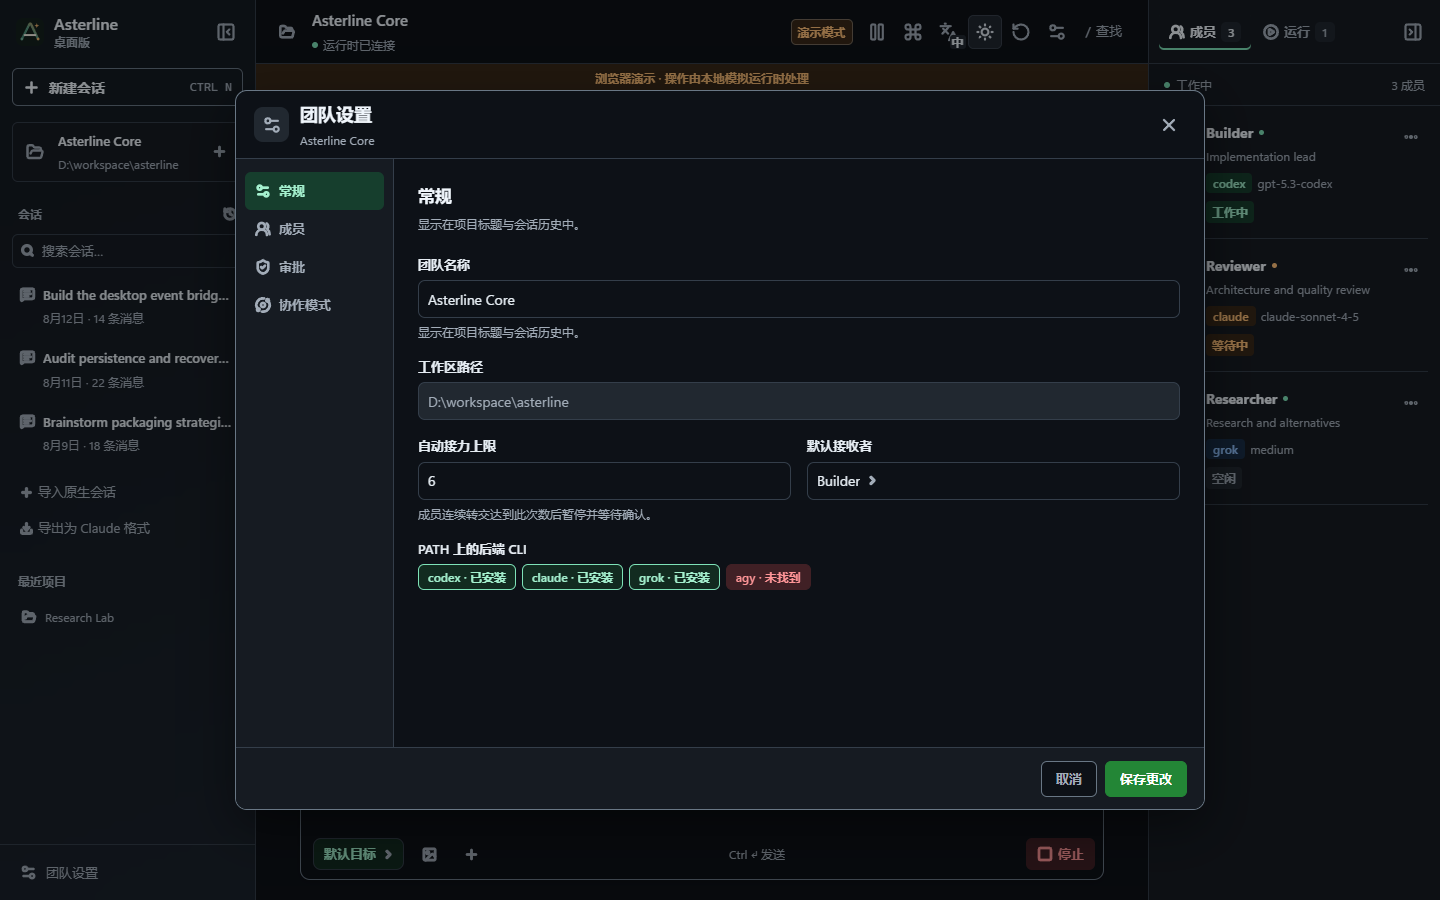
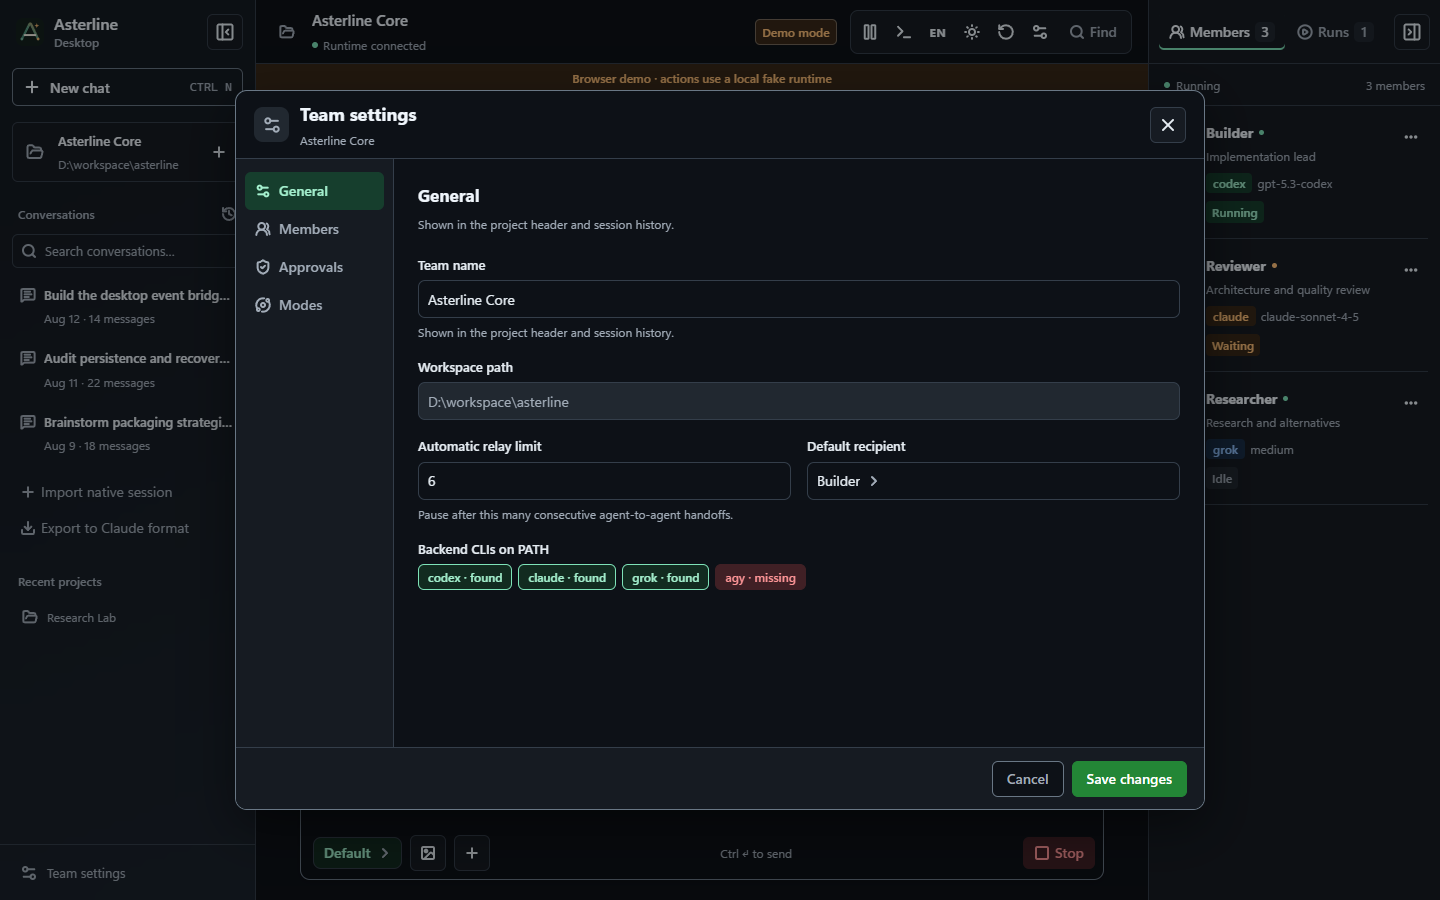
refactor(desktop): sharpen compact widget controls

diff --git a/desktop/src/App.tsx b/desktop/src/App.tsx
@@ -17,7 +17,7 @@ import type {
 import { ApprovalQueue } from "./components/ApprovalQueue";
 import { CommandPalette } from "./components/CommandPalette";
 import { Composer } from "./components/Composer";
-import { ChevronIcon, CommandIcon, FolderIcon, GlobeIcon, MoonIcon, PanelLeftIcon, PanelRightIcon, PauseIcon, PlayIcon, RefreshIcon, SettingsIcon, SunIcon, XIcon } from "./components/Icons";
+import { ChevronIcon, CodeIcon, FolderIcon, ModeIcon, MoonIcon, PanelLeftIcon, PanelRightIcon, PauseIcon, PlayIcon, RefreshIcon, RunIcon, SearchIcon, SettingsIcon, SunIcon, TerminalIcon, ToolIcon, XIcon } from "./components/Icons";
 import { Inspector } from "./components/Inspector";
 import { ModePanel } from "./components/ModePanel";
 import { ProjectPicker } from "./components/ProjectPicker";
@@ -524,22 +524,26 @@ export function App() {
           <div className="topbar-title"><span className="topbar-folder"><FolderIcon size={16} /></span><div><strong>{snapshot?.team?.name || snapshot?.workspace?.split(/[\\/]/).at(-1) || t("workspace")}</strong><small><i className={snapshot?.phase === "ready" ? "online" : ""} />{snapshot?.phase === "ready" ? t("connected") : t("starting")}</small></div></div>
           <div className="topbar-actions">
             {client.kind === "mock" && <span className="demo-pill">{t("demo")}</span>}
-            <button className="icon-button" aria-label={snapshot?.relay_paused ? t("resumeRelayAuto") : t("pauseRelay")} title={snapshot?.relay_paused ? t("resumeRelayAuto") : t("pauseRelay")} onClick={() => void dispatch({ type: "set_relay_paused", paused: !snapshot?.relay_paused })}>{snapshot?.relay_paused ? <PlayIcon /> : <PauseIcon />}</button>
-            <button className="icon-button" aria-label={t("commandPalette")} title={`${t("commandPalette")} (Ctrl+K)`} onClick={() => { setPaletteExecutable(true); setPaletteOpen(true); }}><CommandIcon /></button>
-            <button className="icon-button" aria-label={t("language")} title={t("language")} onClick={() => setLocale((value) => value === "zh-CN" ? "en-US" : "zh-CN")}><GlobeIcon /><small>{locale === "zh-CN" ? "中" : "EN"}</small></button>
-            <button className="icon-button" aria-label={t("theme")} title={t("theme")} onClick={() => setTheme((value) => value === "light" ? "dark" : "light")}>{theme === "light" ? <MoonIcon /> : <SunIcon />}</button>
-            <button className={`icon-button ${updateBusy ? "is-spinning" : ""}`} aria-label={t("update")} title={t("update")} disabled={updateBusy} onClick={() => void checkUpdate()}><RefreshIcon /></button>
-            <button className="icon-button" aria-label={t("settings")} title={t("settings")} onClick={() => setSettingsOpen(true)}><SettingsIcon /></button>
-            <button className="utility-launcher-button" onClick={() => openUtility("find")} title={t("find")}><span>/</span>{t("find")}</button>
-            {!inspectorOpen && <button className="icon-button panel-restore-button" onClick={toggleInspector} aria-label={t("details")}><PanelRightIcon /></button>}
+            <div className="topbar-control-group" role="toolbar" aria-label={t("workspaceActions")}>
+              <button className="icon-button" aria-label={snapshot?.relay_paused ? t("resumeRelayAuto") : t("pauseRelay")} aria-pressed={Boolean(snapshot?.relay_paused)} title={snapshot?.relay_paused ? t("resumeRelayAuto") : t("pauseRelay")} onClick={() => void dispatch({ type: "set_relay_paused", paused: !snapshot?.relay_paused })}>{snapshot?.relay_paused ? <PlayIcon size={18} /> : <PauseIcon size={18} />}</button>
+              <button className="icon-button" aria-label={t("commandPalette")} title={`${t("commandPalette")} (Ctrl+K)`} onClick={() => { setPaletteExecutable(true); setPaletteOpen(true); }}><TerminalIcon size={18} /></button>
+              <button className="icon-button language-button" aria-label={t("language")} title={t("language")} onClick={() => setLocale((value) => value === "zh-CN" ? "en-US" : "zh-CN")}><span className="language-code" aria-hidden="true">{locale === "zh-CN" ? "中" : "EN"}</span></button>
+              <button className="icon-button" aria-label={t("theme")} title={t("theme")} onClick={() => setTheme((value) => value === "light" ? "dark" : "light")}>{theme === "light" ? <MoonIcon size={18} /> : <SunIcon size={18} />}</button>
+              <button className={`icon-button ${updateBusy ? "is-spinning" : ""}`} aria-label={t("update")} title={t("update")} disabled={updateBusy} onClick={() => void checkUpdate()}><RefreshIcon size={18} /></button>
+              <button className="icon-button" aria-label={t("settings")} title={t("settings")} onClick={() => setSettingsOpen(true)}><SettingsIcon size={18} /></button>
+              <button className="utility-launcher-button" onClick={() => openUtility("find")} title={t("find")}><SearchIcon size={16} /><span>{t("find")}</span></button>
+              {!inspectorOpen && <button className="icon-button panel-restore-button" onClick={toggleInspector} aria-label={t("details")}><PanelRightIcon size={18} /></button>}
+            </div>
           </div>
         </header>
 
         {client.kind === "mock" && <div className="demo-banner">{t("mockBanner")}</div>}
-        <div className="utility-launcher" aria-label={t("utilities")}>
-          {(["logs", "diff", "skills"] as const).map((kind) => <button key={kind} onClick={() => openUtility(kind)} className={utilityKind === kind ? "active" : ""}>{t(kind)}</button>)}
-          <button onClick={() => setRunsOpen(true)} className={runsOpen ? "active" : ""}>{t("runs")}</button>
-          <button onClick={() => setModePanelOpen(true)} className={modePanelOpen ? "active" : ""}>{t("modes")}</button>
+        <div className="utility-launcher" role="toolbar" aria-label={t("utilityPanels")}>
+          <button onClick={() => openUtility("logs")} aria-pressed={utilityKind === "logs"} className={utilityKind === "logs" ? "active" : ""}><TerminalIcon size={16} /><span>{t("logs")}</span></button>
+          <button onClick={() => openUtility("diff")} aria-pressed={utilityKind === "diff"} className={utilityKind === "diff" ? "active" : ""}><CodeIcon size={16} /><span>{t("diff")}</span></button>
+          <button onClick={() => openUtility("skills")} aria-pressed={utilityKind === "skills"} className={utilityKind === "skills" ? "active" : ""}><ToolIcon size={16} /><span>{t("skills")}</span></button>
+          <button onClick={() => setRunsOpen(true)} aria-pressed={runsOpen} className={runsOpen ? "active" : ""}><RunIcon size={16} /><span>{t("runs")}</span></button>
+          <button onClick={() => setModePanelOpen(true)} aria-pressed={modePanelOpen} className={modePanelOpen ? "active" : ""}><ModeIcon size={16} /><span>{t("modes")}</span></button>
         </div>
         <div className="conversation-column">
           <div className="timeline-scroll" ref={timelineScroll}>

diff --git a/desktop/src/styles/components.css b/desktop/src/styles/components.css
@@ -981,6 +981,7 @@ select {
   display: block;
   flex: 0 0 auto;
   overflow: visible;
+  shape-rendering: geometricPrecision;
 }
 
 .brand-copy {
@@ -2816,22 +2817,22 @@ small {
 }
 
 .icon-button {
-  border: 0;
-  background: transparent;
-  color: var(--muted);
+  border: 1px solid var(--border);
+  background: var(--surface-soft);
+  color: var(--text);
   display: inline-flex;
   align-items: center;
   justify-content: center;
-  transition: color .15s ease, background-color .15s ease, box-shadow .15s ease;
-  width: 34px;
-  height: 34px;
+  transition: color .12s ease, border-color .12s ease, background-color .12s ease, box-shadow .12s ease;
+  width: 36px;
+  height: 36px;
   border-radius: 6px;
 }
 
 .subtle-icon-button {
-  border: 0;
+  border: 1px solid transparent;
   background: transparent;
-  color: var(--muted);
+  color: var(--text);
   display: inline-flex;
   align-items: center;
   justify-content: center;
@@ -3102,23 +3103,36 @@ small {
 .topbar-actions {
   display: flex;
   align-items: center;
-  gap: 2px;
+  gap: 8px;
   flex-shrink: 0;
 }
 
-.topbar-actions .icon-button small {
-  position: absolute;
-  right: 0;
-  bottom: 0;
-  border-radius: 3px;
-  font-weight: 600;
-  min-width: 13px;
-  line-height: 1;
-  background: var(--panel-muted);
-  color: var(--text);
-  font-size: var(--text-control);
-  line-height: var(--line-control);
-  padding: 1px 2px;
+.topbar-control-group {
+  display: inline-flex;
+  align-items: center;
+  gap: 2px;
+  padding: 3px;
+  border: 1px solid var(--border);
+  border-radius: 8px;
+  background: var(--panel);
+}
+
+.topbar-control-group .icon-button {
+  width: 32px;
+  height: 32px;
+  border-color: transparent;
+  background: transparent;
+}
+
+.topbar-control-group .icon-button:hover:not(:disabled),
+.topbar-control-group .icon-button:active:not(:disabled) {
+  border-color: var(--border-strong);
+}
+
+.language-code {
+  color: currentColor;
+  font: 650 12px/1 var(--font-sans);
+  letter-spacing: .02em;
 }
 
 .demo-pill {
@@ -3157,16 +3171,21 @@ small {
   padding: 5px 16px;
   border-bottom: 1px solid var(--border);
   overflow-x: auto;
+  background: var(--panel);
 }
 
 .utility-launcher button {
-  color: var(--muted);
+  color: var(--text);
   cursor: pointer;
-  border: 0;
+  display: inline-flex;
+  align-items: center;
+  gap: 6px;
+  border: 1px solid var(--border);
   border-radius: 5px;
-  padding: 7px 10px;
+  min-height: 32px;
+  padding: 5px 10px;
   font: 500 var(--text-control)/var(--line-control) var(--font-sans);
-  background: transparent;
+  background: var(--surface);
   white-space: nowrap;
 }
 
@@ -3176,7 +3195,7 @@ small {
   display: inline-flex;
   gap: 5px;
   align-items: center;
-  border: 0;
+  border: 1px solid transparent;
   border-radius: 5px;
   padding: 7px 10px;
   font: 500 var(--text-control)/var(--line-control) var(--font-sans);
@@ -3185,19 +3204,20 @@ small {
 }
 
 .utility-launcher button:hover {
-  border-color: color-mix(in srgb, var(--accent) 45%, var(--border));
+  border-color: var(--border-strong);
   color: var(--text-strong);
   background: var(--surface-hover);
 }
 
 .utility-launcher button.active {
-  border-color: color-mix(in srgb, var(--accent) 45%, var(--border));
-  color: var(--text-strong);
-  background: var(--surface-hover);
+  border-color: color-mix(in srgb, var(--accent) 65%, var(--border));
+  color: var(--accent-strong);
+  background: var(--accent-faint);
+  box-shadow: inset 0 -2px var(--accent);
 }
 
 .utility-launcher-button:hover {
-  border-color: color-mix(in srgb, var(--accent) 45%, var(--border));
+  border-color: var(--border-strong);
   color: var(--text-strong);
   background: var(--surface-hover);
 }

diff --git a/desktop/src/components/Composer.tsx b/desktop/src/components/Composer.tsx
@@ -18,7 +18,7 @@ import type {
 } from "../bridge/types";
 import type { Translate } from "../i18n";
 import { Dropdown } from "./Dropdown";
-import { ImageIcon, PlusIcon, SendIcon, SparkIcon, StopIcon } from "./Icons";
+import { ImageIcon, PlusIcon, SendIcon, SparkIcon, StopIcon, XIcon } from "./Icons";
 
 /** Composer budget mirrored from the shared contract (256 KiB). */
 export const MAX_COMPOSER_BYTES = 256 * 1024;
@@ -358,7 +358,7 @@ export function Composer({
       <div className="mode-row" role="toolbar" aria-label={t("modes")}>
         <div className="mode-switcher">
           <SparkIcon size={13} className="mode-switcher-glyph" />
-          {MODES.map((value) => <button key={value} className={mode === value ? "active" : ""} onClick={() => onMode(value)} disabled={disabled}>{t(value)}</button>)}
+          {MODES.map((value) => <button key={value} className={mode === value ? "active" : ""} aria-pressed={mode === value} onClick={() => onMode(value)} disabled={disabled}>{t(value)}</button>)}
         </div>
       </div>
       <div className={`composer ${disabled ? "disabled" : ""}`}>
@@ -389,7 +389,7 @@ export function Composer({
                     getDesktopClient().removeStagedAttachment(attachment.token).catch(() => undefined);
                   }}
                 >
-                  ×
+                  <XIcon size={16} />
                 </button>
               </span>
             ))}

diff --git a/desktop/src/components/SessionImportModal.tsx b/desktop/src/components/SessionImportModal.tsx
@@ -2,7 +2,7 @@ import { useEffect, useMemo, useState } from "react";
 import type { BackendKind, DesktopCommandV2, MemberSummaryV2, NativeSessionSummary } from "../bridge/types";
 import type { Translate } from "../i18n";
 import { Dropdown } from "./Dropdown";
-import { XIcon } from "./Icons";
+import { RefreshIcon, XIcon } from "./Icons";
 
 const BACKENDS: BackendKind[] = ["codex", "claude", "grok", "agy"];
 
@@ -84,7 +84,7 @@ export function SessionImportModal({ workspace, members, busy, t, onClose, dispa
             aria-label={t("nativeSessionSearch")}
             onChange={(event) => setQuery(event.target.value)}
           />
-          <button className="icon-button" aria-label={t("refreshUtility")} onClick={() => void load()} disabled={busy}>⟳</button>
+          <button className="icon-button" aria-label={t("refreshUtility")} title={t("refreshUtility")} onClick={() => void load()} disabled={busy}><RefreshIcon size={18} /></button>
         </div>
         {error && <p className="session-import-error">{error}</p>}
         <ul className="session-import-list">

diff --git a/desktop/e2e/critical-flows.spec.ts b/desktop/e2e/critical-flows.spec.ts
@@ -157,3 +157,18 @@ test("target selector is a themed dropdown with keyboard support", async ({ page
   await expect(trigger).toContainText("Reviewer");
   await expect(listbox).toBeHidden();
 });
+
+test("compact widget buttons keep visible bounds and crisp vector geometry", async ({ page }) => {
+  const workspaceActions = page.getByRole("toolbar", { name: "Workspace actions" });
+  const settings = workspaceActions.getByRole("button", { name: "Team settings" });
+  const utilityPanels = page.getByRole("toolbar", { name: "Utility panels" });
+  const logs = utilityPanels.getByRole("button", { name: "Logs" });
+
+  await expect(workspaceActions).toHaveCSS("border-top-width", "1px");
+  await expect(settings).toHaveCSS("width", "32px");
+  await expect(settings).toHaveCSS("height", "32px");
+  await expect(settings.locator(".ui-icon")).toHaveCSS("width", "18px");
+  await expect(logs).toHaveCSS("min-height", "32px");
+  await expect(logs).toHaveCSS("border-top-width", "1px");
+  await expect(logs.locator(".ui-icon")).toHaveCSS("width", "16px");
+});

diff --git a/desktop/src/i18n.ts b/desktop/src/i18n.ts
@@ -162,6 +162,8 @@ const en: Record<string, string> = {
   inspector: "Inspector",
   details: "Details",
   utilities: "Utilities",
+  workspaceActions: "Workspace actions",
+  utilityPanels: "Utility panels",
   logs: "Logs",
   diff: "Diff",
   skills: "Skills",
@@ -451,6 +453,8 @@ const zh: Record<string, string> = {
   inspector: "检查器",
   details: "详情",
   utilities: "工具",
+  workspaceActions: "工作区操作",
+  utilityPanels: "工具面板",
   logs: "日志",
   diff: "Diff",
   skills: "Skills",

diff --git a/docs/assets/desktop-widget-controls-v2-concept.prompt.md b/docs/assets/desktop-widget-controls-v2-concept.prompt.md
@@ -1,0 +1,17 @@
+# Desktop widget controls v2 concept
+
+Generated with the built-in ImageGen tool as an implementation reference, not as a README product screenshot.
+
+```text
+Use case: ui-mockup
+Asset type: practical desktop UI implementation reference for Asterline
+Primary request: Create a shippable high-fidelity English-language component specimen for a local-first AI developer workspace, focused on crisp compact widget and toolbar buttons.
+Scene/backdrop: flat orthographic interface specimen on a dark neutral developer-tool background, with one compact top toolbar, one utility tab strip, one mode segmented control, and one composer footer.
+Style/medium: mature desktop developer tooling inspired by the restrained interaction discipline of GitHub Primer, Microsoft Fluent, and VS Code; not a copy of any brand.
+Composition/framing: 16:9 landscape, straight-on UI view, four clearly separated component rows with generous inspection space, no device frame and no perspective.
+Color palette: charcoal #0D1117, raised surface #161B22, visible neutral border #343E4A, primary text #F0F6FC, secondary text #A2ACB8, mint accent #7EE2B8, danger #FF9698.
+Text (verbatim): "Pause relay", "Commands", "Language", "Theme", "Updates", "Settings", "Logs", "Diff", "Skills", "Runs", "Modes", "Chat", "Review", "Plan", "Brainstorm", "Team", "Add image", "Stop".
+Key details: crisp 32–36 px button containers, simple 18–20 px outline icons with consistent 2 px stroke, explicit neutral surface and visible boundary at rest, bright icon contrast, compact 4 px gaps, 6 px corner radius, logical grouping, clear selected state, hover state, keyboard focus ring, disabled state, destructive Stop button visually separated.
+Typography: Windows-native Segoe UI style, sharp and readable, no tiny text, labels 13–14 px.
+Constraints: treat this as an implementation reference, not concept art; all edges pixel-aligned; no glass blur over controls; no gradients inside buttons; no glowing neon; no rounded pill overload; no logos; no watermark; no extra text; no illegible microcopy.
+```
